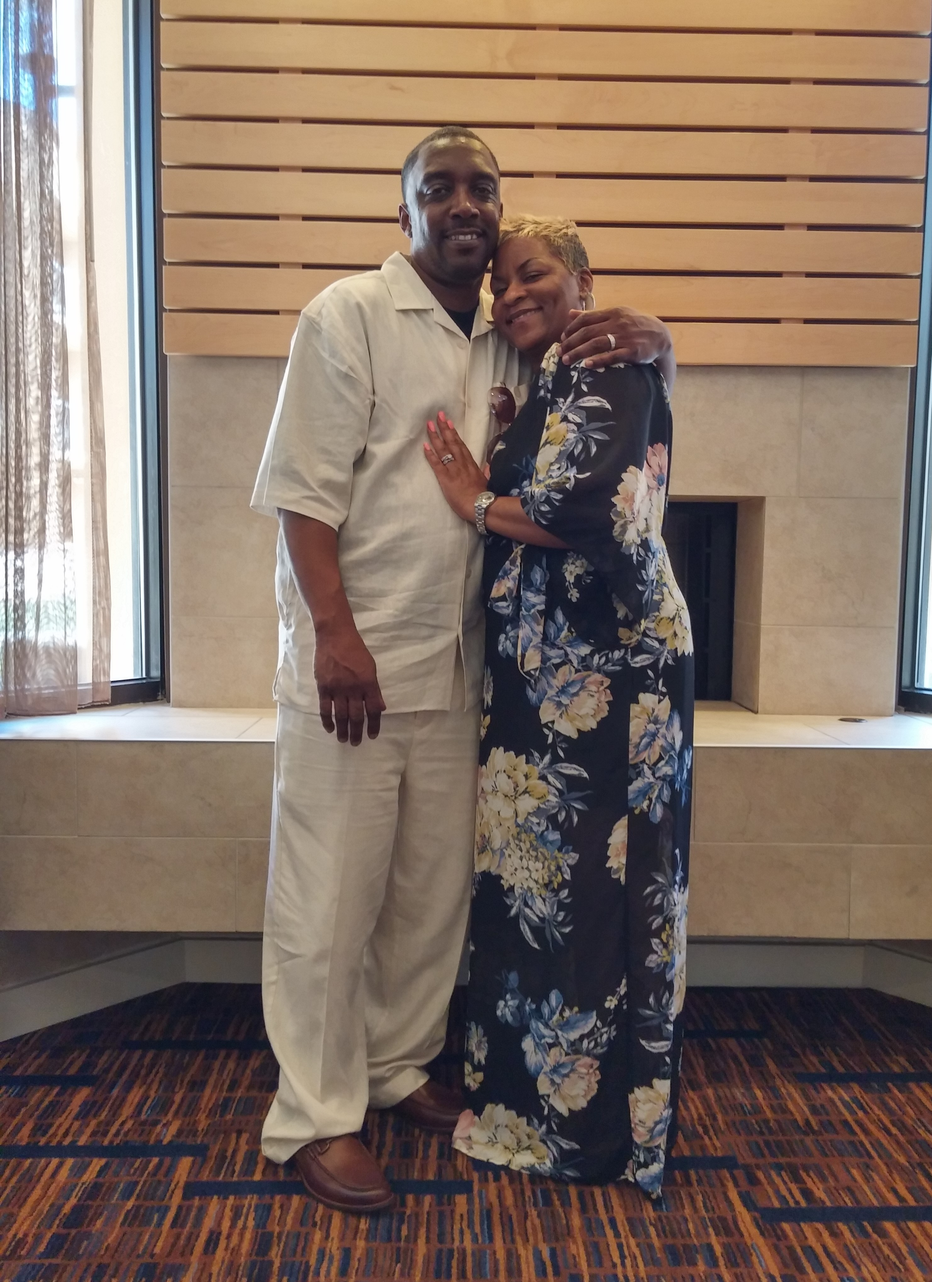
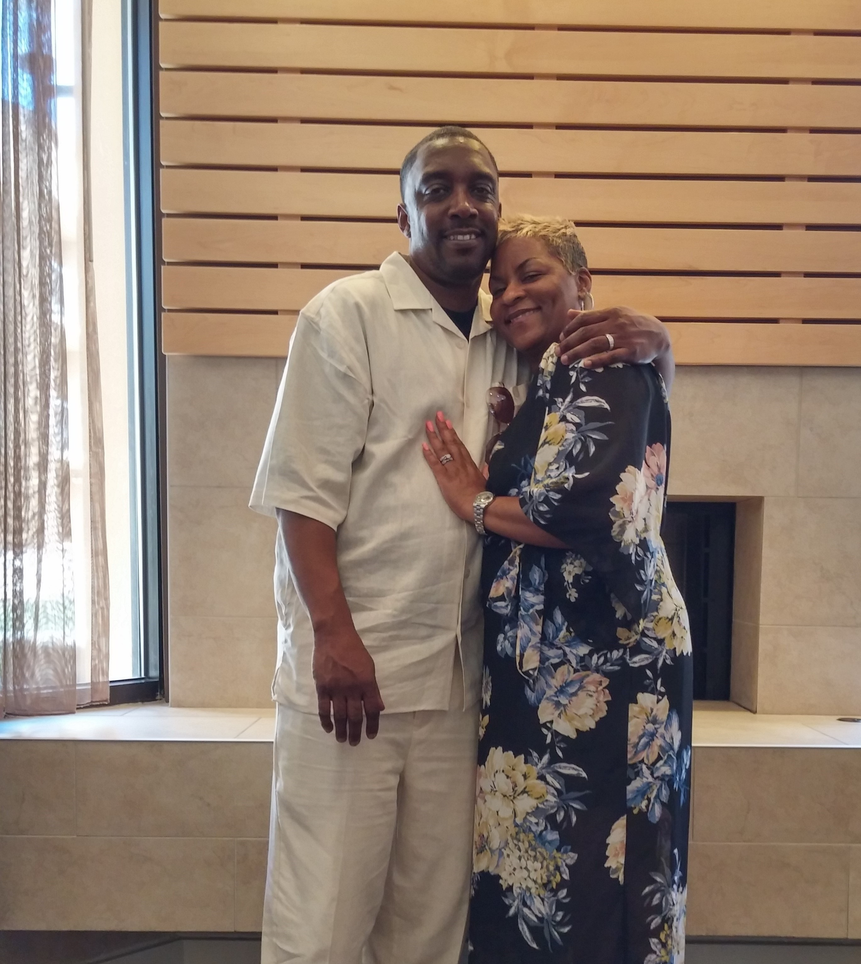
image fixes

diff --git a/public/stylesheets/welcome.css b/public/stylesheets/welcome.css
@@ -9,6 +9,9 @@
     margin-top: 25px;
 }
 
+[data-section="welcome"] .image-container img{
+    width: 100%;
+}
 
 
 [data-section="welcome"] .image-container:not(.last){
